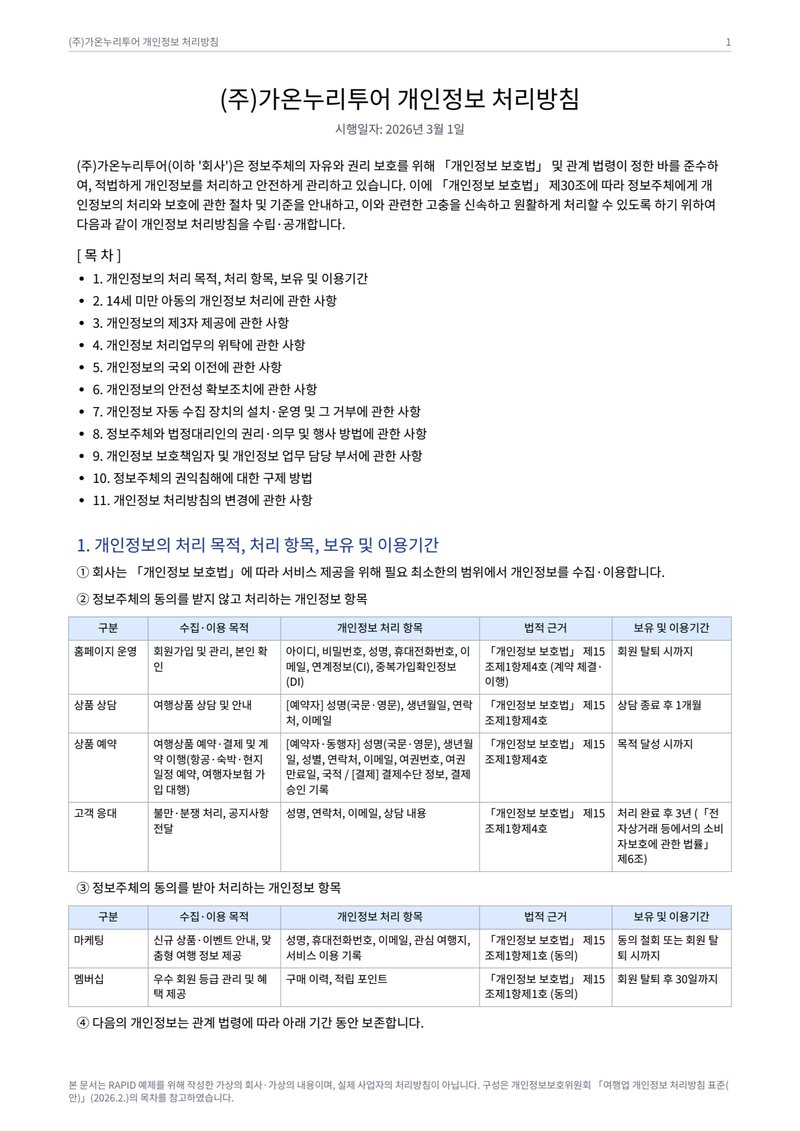
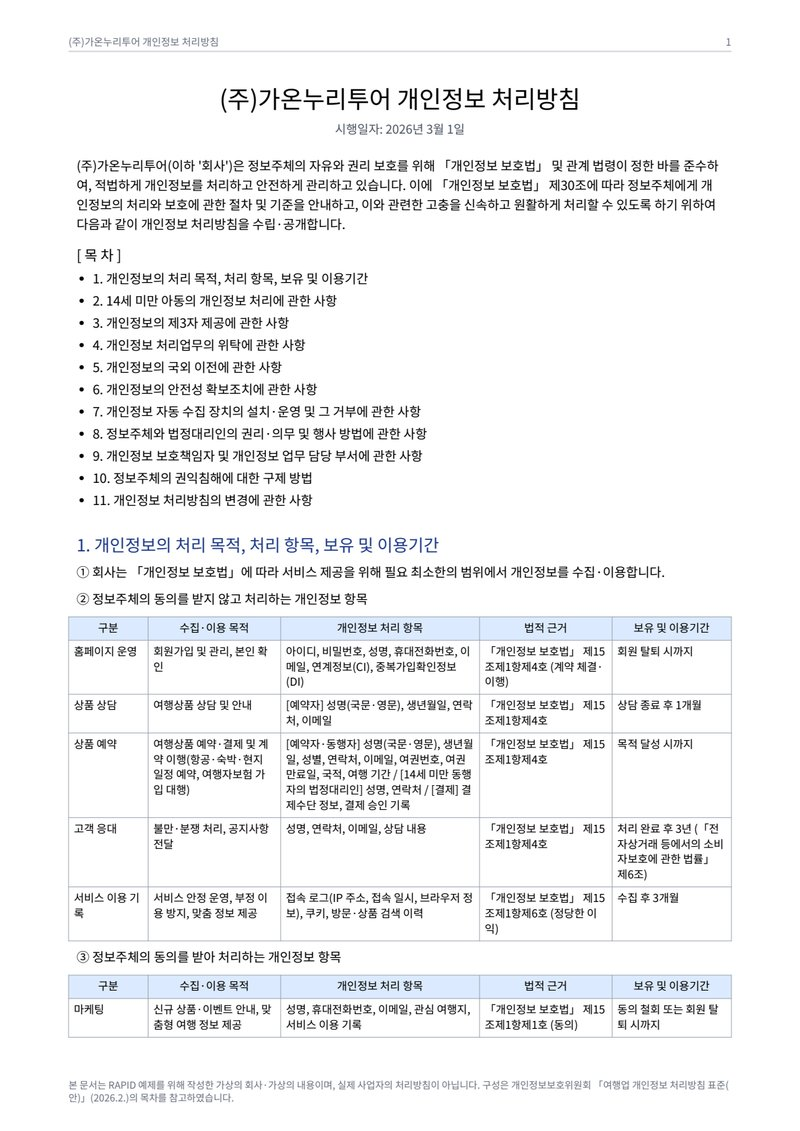
fix(examples): make UC001/UC003 Korean fixtures consistent with their pass items (M4 follow-up)
Three 'pass' items were judged fail in every M4 run for reasons the documents actually supported:
- UC001 item03: items collected elsewhere in the policy (여행 기간, legal-guardian name/contact, access log / search history) were missing from the section-1 tables -> rows added
- UC001 item04: the consent-verification method for under-14 guardians was not stated -> paragraph added (mobile identity check or signed form)
- UC003 item02: the blank acceptable-risk level (designed defect 2, item 3) also tripped item 2 -> item 2 scoped to grading criteria only

Designed defects (6/3/5) unchanged. Regenerated PDFs, ko thumbnails, scan fixture manifests and suite (item text). Re-run: fixed items 9/9 pass over 3 runs, full examples suite 40/40; recorded in docs/ko/m4-quality-report.md.

Changed region(s): [[0.0625, 0.6808, 0.9375, 0.9284], [0.0938, 0.7118, 0.1562, 0.7427]]

diff --git a/.claude/skills/add-example/scripts/korean_examples/uc001_privacy.py b/.claude/skills/add-example/scripts/korean_examples/uc001_privacy.py
@@ -134,8 +134,9 @@ REVIEW = {
             "rows": [
                 ["홈페이지 운영", "회원가입 및 관리, 본인 확인", "아이디, 비밀번호, 성명, 휴대전화번호, 이메일, 연계정보(CI), 중복가입확인정보(DI)", "「개인정보 보호법」 제15조제1항제4호 (계약 체결·이행)", "회원 탈퇴 시까지"],
                 ["상품 상담", "여행상품 상담 및 안내", "[예약자] 성명(국문·영문), 생년월일, 연락처, 이메일", "「개인정보 보호법」 제15조제1항제4호", "상담 종료 후 1개월"],
-                ["상품 예약", "여행상품 예약·결제 및 계약 이행(항공·숙박·현지 일정 예약, 여행자보험 가입 대행)", "[예약자·동행자] 성명(국문·영문), 생년월일, 성별, 연락처, 이메일, 여권번호, 여권만료일, 국적 / [결제] 결제수단 정보, 결제 승인 기록", "「개인정보 보호법」 제15조제1항제4호", "목적 달성 시까지"],
+                ["상품 예약", "여행상품 예약·결제 및 계약 이행(항공·숙박·현지 일정 예약, 여행자보험 가입 대행)", "[예약자·동행자] 성명(국문·영문), 생년월일, 성별, 연락처, 이메일, 여권번호, 여권만료일, 국적, 여행 기간 / [14세 미만 동행자의 법정대리인] 성명, 연락처 / [결제] 결제수단 정보, 결제 승인 기록", "「개인정보 보호법」 제15조제1항제4호", "목적 달성 시까지"],
                 ["고객 응대", "불만·분쟁 처리, 공지사항 전달", "성명, 연락처, 이메일, 상담 내용", "「개인정보 보호법」 제15조제1항제4호", "처리 완료 후 3년 (「전자상거래 등에서의 소비자보호에 관한 법률」 제6조)"],
+                ["서비스 이용 기록", "서비스 안정 운영, 부정 이용 방지, 맞춤 정보 제공", "접속 로그(IP 주소, 접속 일시, 브라우저 정보), 쿠키, 방문·상품 검색 이력", "「개인정보 보호법」 제15조제1항제6호 (정당한 이익)", "수집 후 3개월"],
             ],
             "widths": [0.12, 0.2, 0.3, 0.2, 0.18],
         }),
@@ -161,7 +162,8 @@ REVIEW = {
         }),
         ("h2", "2. 14세 미만 아동의 개인정보 처리에 관한 사항"),
         ("p", "① 회사는 14세 미만 아동의 개인정보를 처리하기 위하여 동의가 필요한 경우 그 법정대리인의 동의를 받습니다. 동행자로 등록되는 14세 미만 아동의 개인정보는 예약자인 법정대리인이 직접 입력하는 방식으로 수집합니다."),
-        ("p", "② 법정대리인의 동의를 받기 위하여 법정대리인의 성명·연락처 등 최소한의 정보를 수집할 수 있으며, 이 정보는 동의 확인 목적 외로 이용하지 않습니다."),
+        ("p", "② 법정대리인의 동의는 다음 방법 중 하나로 확인합니다: 예약 화면에서 법정대리인이 휴대전화 본인확인을 거친 뒤 동의 내용을 확인하고 동의 표시를 하는 방법, 또는 동의 내용이 적힌 서면을 법정대리인에게 교부하고 서명·날인한 서면을 우편·팩스·이메일로 제출받는 방법. 회사는 동의를 받은 법정대리인이 실제 법정대리인인지 확인하기 위하여 필요한 최소한의 범위에서 가족관계 확인을 요청할 수 있습니다."),
+        ("p", "③ 법정대리인의 동의를 받기 위하여 법정대리인의 성명·연락처 등 최소한의 정보를 수집할 수 있으며, 이 정보는 동의 확인 목적 외로 이용하지 않습니다."),
         ("h2", "3. 개인정보의 제3자 제공에 관한 사항"),
         ("p", "① 회사는 정보주체의 개인정보를 제1조에서 명시한 범위 내에서만 처리하며, 「개인정보 보호법」 제17조 및 제18조에 해당하는 경우에만 개인정보를 제3자에게 제공합니다."),
         ("p", "② 회사는 여행 계약 이행을 위하여 다음과 같이 개인정보를 제3자에게 제공합니다."),

diff --git a/.claude/skills/add-example/scripts/korean_examples/uc003_risk.py b/.claude/skills/add-example/scripts/korean_examples/uc003_risk.py
@@ -27,7 +27,7 @@ DEFECTS = [
 _ITEMS = [
     # (번호, 점검 항목, 점검 기준, 근거)
     ("1", "실시규정", "위험성평가 실시규정이 작성·관리되고 있으며 평가의 목적·방법, 담당자·책임자의 역할, 평가 시기·절차, 근로자 참여·공유 방법, 결과의 기록·보존이 포함되어 있는가.", "고시 §9①"),
-    ("2", "위험성 수준 판단 기준", "위험성의 수준과 그 수준을 판단하는 기준(빈도·강도 등급 정의, 조합 방법)이 평가 전에 확정되어 결과서에 기재되어 있는가.", "고시 §9②1"),
+    ("2", "위험성 수준 판단 기준", "위험성의 수준과 그 수준을 판단하는 기준(빈도·강도 등급 정의, 조합 방법)이 평가 전에 확정되어 결과서에 기재되어 있는가. 허용 가능한 위험성 수준의 명시 여부는 이 항목이 아니라 항목 3에서 점검한다.", "고시 §9②1"),
     ("3", "허용 가능한 위험성 수준", "허용 가능한 위험성의 수준이 명시되어 있는가(법에서 정한 기준 이상). 공란이거나 '추후 결정' 등으로 되어 있지 않은가.", "고시 §9②2"),
     ("4", "사전 안전보건정보 조사", "작업표준·절차, 설비 사양서·MSDS, 공정 흐름, 재해사례·통계, 작업환경측정·건강진단 결과 등 사전 조사한 안전보건정보가 기록되어 있는가.", "고시 §9③, §14①1"),
     ("5", "근로자 참여", "유해·위험요인 파악, 위험성 결정, 감소대책 수립·실행·확인의 각 단계에 해당 작업에 종사하는 근로자가 참여한 기록(참여자 명단·서명·회의록 등)이 있는가.", "법 §36②, 고시 §6"),
